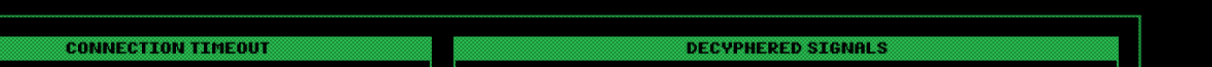
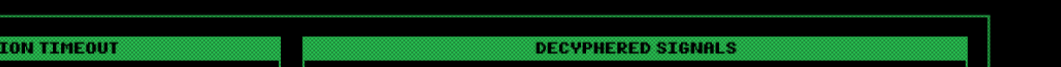
cropped cayo header to exclude tips, added cayo capture, multi threaded image compare

Changed region(s): [[0.0, 0.209, 0.9642, 1.0], [0.3732, 0.9851, 0.4043, 1.0]]

diff --git a/src-tauri/src/cayo/cayo_capture.rs b/src-tauri/src/cayo/cayo_capture.rs
@@ -1,0 +1,85 @@
+use std::{
+    fs::{self},
+    path::Path,
+    thread,
+    time::Duration,
+};
+
+use gta_assistant::{constants, utils, ThreadStatus};
+use winapi::um::winuser::{VK_DOWN, VK_RIGHT, VK_UP};
+
+pub fn handler(thread_status: ThreadStatus) {
+    thread::spawn(move || {
+        let height = utils::get_main_monitor().unwrap().height();
+        let header_pos = constants::CAYO_HEADER_POS.get(&height).unwrap();
+        let fingerprint_pos = constants::CAYO_FINGERPRINT_POS.get(&height).unwrap();
+        let parts_pos = constants::CAYO_PARTS_POS.get(&height).unwrap();
+        let output_folder = Path::new("../output").join(height.to_string()).join("cayo");
+
+        if !output_folder.exists() {
+            fs::create_dir_all(&output_folder).expect("failed to create output folder");
+        }
+        let monitor = utils::get_main_monitor().unwrap();
+        let mut curr_index = 0;
+        thread::sleep(Duration::from_millis(5000));
+        loop {
+            if !utils::check_thread_status(&thread_status) {
+                break;
+            };
+
+            let fingerprint_screenshot =
+                utils::capture_region(&monitor, fingerprint_pos).into_rgb8();
+
+            // try to find if we already saved that one
+            let mut found = false;
+            for file in fs::read_dir(&output_folder).unwrap().map(|f| f.unwrap()) {
+                if file.file_type().unwrap().is_dir() {
+                    let fingerprint_path = file.path().join("fingerprint.png");
+                    if fingerprint_path.exists() {
+                        let prev_fingerprint_screenshot = utils::open_image(fingerprint_path);
+                        if utils::compare_image(
+                            &fingerprint_screenshot,
+                            &prev_fingerprint_screenshot,
+                        ) > 0.99
+                        {
+                            // already captured this one
+                            found = true;
+                            break;
+                        }
+                    }
+                }
+            }
+            if found {
+                continue;
+            }
+
+            let curr_path = output_folder.join(curr_index.to_string());
+            if !curr_path.exists() {
+                fs::create_dir(&curr_path).expect("failed to create folder");
+            }
+            let header_screenshot = utils::capture_region(&monitor, header_pos).into_rgb8();
+            header_screenshot
+                .save(curr_path.join("header.png"))
+                .expect("failed to screenshot header");
+
+            fingerprint_screenshot
+                .save(curr_path.join("fingerprint.png"))
+                .expect("failed to screenshot fingerprint");
+
+            // save parts
+
+            for i in 1..=8 {
+                let pos = parts_pos.get(0).unwrap();
+                utils::press(VK_DOWN);
+                let part_screen = utils::capture_region(&monitor, pos);
+                part_screen
+                    .save(curr_path.join(i.to_string() + ".png"))
+                    .expect("failed to save part");
+                utils::press(VK_UP);
+                utils::press(VK_RIGHT);
+            }
+            curr_index += 1;
+            thread::sleep(Duration::from_millis(5000));
+        }
+    });
+}

diff --git a/src-tauri/src/utils.rs b/src-tauri/src/utils.rs
@@ -1,9 +1,9 @@
+use crate::constants;
 use image::{imageops, DynamicImage, ImageReader, RgbImage};
-use image_hasher::HasherConfig;
+use image_hasher::{Hasher, HasherConfig, ImageHash};
 use std::path::PathBuf;
 use std::sync::{Arc, Mutex};
 use std::thread;
-use std::time::Duration;
 use tauri_plugin_dialog::{DialogExt, MessageDialogKind};
 use winapi::ctypes::c_int;
 use winapi::um::winuser::{
@@ -87,12 +87,19 @@ pub fn capture_regions(monitor: &Monitor, regions: &[Region]) -> Vec<image::Dyna
         .collect()
 }
 
+fn hash_image(hasher: &Hasher, img: &RgbImage) -> ImageHash {
+    hasher.hash_image(img)
+}
+
 pub fn compare_image(img1: &RgbImage, img2: &RgbImage) -> f64 {
     let hasher = HasherConfig::new().to_hasher();
-    let img1 = DynamicImage::ImageRgb8(img1.clone());
-    let img2 = DynamicImage::ImageRgb8(img2.clone());
-    let hash1 = hasher.hash_image(&img1);
-    let hash2 = hasher.hash_image(&img2);
+    let (hash1, hash2) = thread::scope(|scope| {
+        let hash1_thread = scope.spawn(|| hash_image(&hasher, img1));
+        let hash2_thread = scope.spawn(|| hash_image(&hasher, img2));
+        let hash1 = hash1_thread.join().unwrap();
+        let hash2 = hash2_thread.join().unwrap();
+        (hash1, hash2)
+    });
 
     let distance = hash1.dist(&hash2);
     let similarity = 1.0 - (distance as f64 / (hash1.as_bytes().len() * 8) as f64);
@@ -100,24 +107,32 @@ pub fn compare_image(img1: &RgbImage, img2: &RgbImage) -> f64 {
 }
 
 pub fn find_image_in_array(target: &RgbImage, images: &[RgbImage]) -> usize {
-    let mut best_index = 0;
-    let mut best_score = 0f64;
-    for (index, image) in images.iter().enumerate() {
-        let score = compare_image(target, image);
-        if score > best_score {
-            best_score = score;
-            best_index = index;
+    thread::scope(|scope| {
+        let mut threads = Vec::with_capacity(images.len());
+        for (index, image) in images.iter().enumerate() {
+            threads.push(scope.spawn(move || {
+                let score = compare_image(target, image);
+                (index, score)
+            }))
         }
-        if score == 1f64 {
-            break;
+
+        let mut best_score = 0f64;
+        let mut best_index = 0;
+        for thread in threads {
+            let (index, score) = thread.join().unwrap();
+            if score > best_score {
+                best_score = score;
+                best_index = index;
+            }
+            if score == 1f64 {
+                return index;
+            }
         }
-    }
-    println!();
-    best_index
+        return best_index;
+    })
 }
 
 pub fn press(vk_code: i32) {
-    const PRESS_DURATION: Duration = Duration::from_millis(30);
     fn send(vk_code: i32, down: bool) {
         let extended_keys = vec![
             VK_RCONTROL,
@@ -160,9 +175,9 @@ pub fn press(vk_code: i32) {
         }
     }
     send(vk_code, true);
-    thread::sleep(PRESS_DURATION);
+    thread::sleep(*constants::PRESS_DURATION);
     send(vk_code, false);
-    thread::sleep(PRESS_DURATION);
+    thread::sleep(*constants::PRESS_DURATION);
 }
 
 pub fn relative_array(arr: &[usize]) -> Vec<usize> {

diff --git a/src-tauri/src/cayo/cayo.rs b/src-tauri/src/cayo/cayo.rs
@@ -1,6 +1,6 @@
 use gta_assistant::{constants, utils, ThreadStatus};
 use image::RgbImage;
-use std::{path::Path, thread};
+use std::{path::Path, thread, time::Instant};
 use winapi::um::winuser::{VK_DOWN, VK_LEFT, VK_RIGHT};
 
 pub fn handler(thread_status: ThreadStatus) {
@@ -42,18 +42,26 @@ pub fn handler(thread_status: ThreadStatus) {
             let similarity = utils::compare_image(&header_image, &header_screenshot);
             if similarity > 0.99 {
                 println!("Fingerprint detected ({} header similarity)", similarity);
+                let before_screens = Instant::now();
                 let fingerprint_screenshot =
                     utils::capture_region(&monitor, fingerprint_pos).into_rgb8();
 
+                let time1 = Instant::now();
                 let fingerprint_index =
                     utils::find_image_in_array(&fingerprint_screenshot, &fingerprints);
-
+                println!(
+                    "fingerprint detect time : {}ms",
+                    time1.elapsed().as_millis()
+                );
                 let curr_parts = parts.get(fingerprint_index).unwrap();
-
+                let time2 = Instant::now();
                 let parts_screenshots: Vec<RgbImage> = utils::capture_regions(&monitor, &parts_pos)
                     .into_iter()
                     .map(|img| img.into_rgb8())
                     .collect();
+
+                println!("screen time : {}ms", before_screens.elapsed().as_millis());
+                println!("only parts screen time : {}ms", time2.elapsed().as_millis());
                 for i in 0..8 {
                     let part_screen = parts_screenshots.get(i).unwrap();
                     let part_index = utils::find_image_in_array(part_screen, &curr_parts);
@@ -86,7 +94,7 @@ fn move_to(current: usize, target: usize) {
             multiple_press(VK_RIGHT, move_count);
         }
     } else {
-        if current - target < 4 {
+        if current - target > 4 {
             let move_count = 8 - current + target;
             multiple_press(VK_RIGHT, move_count);
         } else {

diff --git a/src-tauri/src/main.rs b/src-tauri/src/main.rs
@@ -126,12 +126,20 @@ fn main() {
         }),
     ]);
 
-    buttons.push(vec![Button::Toggle(ToggleButton {
-        id: "casino-capture".to_string(),
-        task: casino::casino_capture::handler,
-        enabled_text: "Disable Casino Capture".to_string(),
-        disabled_text: "Enable Casino Capture".to_string(),
-    })]);
+    buttons.push(vec![
+        Button::Toggle(ToggleButton {
+            id: "casino-capture".to_string(),
+            task: casino::casino_capture::handler,
+            enabled_text: "Disable Casino Capture".to_string(),
+            disabled_text: "Enable Casino Capture".to_string(),
+        }),
+        Button::Toggle(ToggleButton {
+            id: "cayo-capture".to_string(),
+            task: cayo::cayo_capture::handler,
+            enabled_text: "Disable Cayo Capture".to_string(),
+            disabled_text: "Enable Cayo Capture".to_string(),
+        }),
+    ]);
 
     let state: AppState = AppState {
         running_threads: Mutex::new(HashMap::new()),

diff --git a/src-tauri/src/constants.rs b/src-tauri/src/constants.rs
@@ -53,7 +53,7 @@ lazy_static! {
     pub static ref CAYO_FINGERPRINT_COUNT: u16 = 7;
     pub static ref CAYO_HEADER_POS: HashMap<u32, Region> = {
         let mut m = HashMap::new();
-        m.insert(1080, [449, 60, 1661, 127]);
+        m.insert(1080, [600, 60, 1661, 127]);
         m.insert(1440, [0, 0, 0, 0]);
         m
     };
@@ -95,10 +95,11 @@ lazy_static! {
         );
         m
     };
-    pub static ref CAYO_WAIT_DELAY:Duration = Duration::from_millis(3000);
+    pub static ref CAYO_WAIT_DELAY:Duration = Duration::from_millis(2200);
 
 
     // GENERAL
+    pub static ref PRESS_DURATION: Duration = Duration::from_millis(30);
     pub static ref UPDATE_RATE:u16 = 10;
     pub static ref LOOP_DELAY:Duration = Duration::from_millis(1000 / *UPDATE_RATE as u64);
 }

diff --git a/src-tauri/src/cayo/mod.rs b/src-tauri/src/cayo/mod.rs
@@ -1,1 +1,2 @@
 pub mod cayo;
+pub mod cayo_capture;
